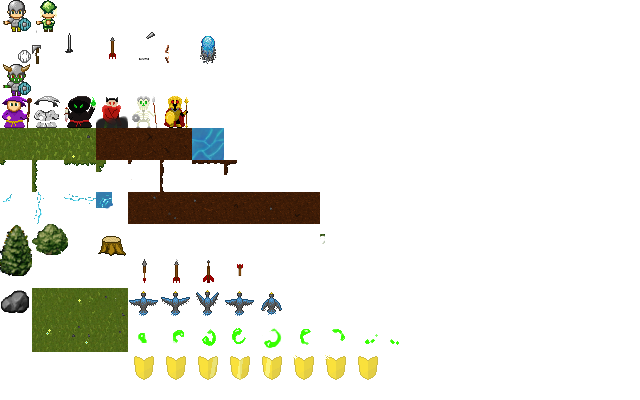
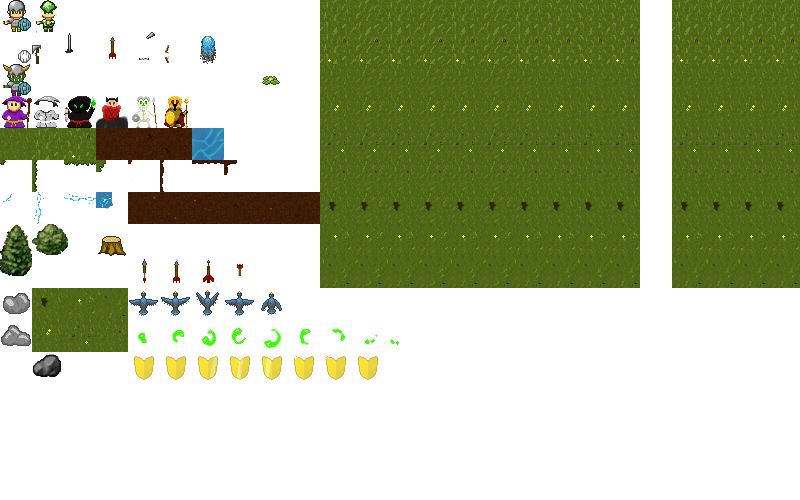
added grass animations, and new rocks

diff --git a/IronTactics/src/fr/frozen/iron/common/Tile.java b/IronTactics/src/fr/frozen/iron/common/Tile.java
@@ -4,6 +4,7 @@ import java.awt.geom.Point2D;
 import java.util.ArrayList;
 import java.util.List;
 
+import fr.frozen.game.AnimationSequence;
 import fr.frozen.game.ISprite;
 import fr.frozen.game.ISpriteManager;
 import fr.frozen.game.SpriteManagerImpl;
@@ -45,6 +46,9 @@ public class Tile {
 	
 	protected IronMap map;
 	protected ISprite sprite;
+	protected AnimationSequence idle_animation;
+	protected AnimationSequence wind_animation;
+	
 	protected ISprite overlapSprite;
 	protected List<ISprite> []overlaySprites;
 	
@@ -185,20 +189,32 @@ public class Tile {
 		return "["+type+ ", "+subType+"]["+objectOverlap+", "+objectSubType+", "+occupied+"]["+terrainOverlap+"] ";
 	}
 
-	public void render() {
-		if (sprite != null) {
-			sprite.draw((float)pos.getX() * IronConst.TILE_WIDTH, (float)pos.getY() * IronConst.TILE_HEIGHT);
+	public void render(float deltaTime) {
+		float x = (float)pos.getX() * IronConst.TILE_WIDTH;
+		float y = (float)pos.getY() * IronConst.TILE_HEIGHT;
+		
+		if (wind_animation != null && wind_animation.animating()) {
+			wind_animation.update(deltaTime);
+		} else if (idle_animation != null) {
+			idle_animation.update(deltaTime);
+		}
+		
+		if (wind_animation != null && wind_animation.animating()) {
+			wind_animation.getCurrentSprite().draw(x, y);
+		} else if(idle_animation != null) {
+			idle_animation.getCurrentSprite().draw(x, y);
+		} else if (sprite != null) {
+			sprite.draw(x, y);
 		}
 		
 		if (overlaySprites != null) {
 			for (int i = 0; i < NB_DISPLAY_LEVELS; i++) {
 				for (ISprite s : overlaySprites[i]) {
-					s.draw((float)pos.getX() * IronConst.TILE_WIDTH, (float)pos.getY() * IronConst.TILE_HEIGHT);
+					s.draw(x, y);
 				}
 			}
 		}
 	}
-	
 	
 	public void renderObject(float deltaTime) {
 		if (overlapSprite != null) {
@@ -206,14 +222,27 @@ public class Tile {
 		}
 	}
 	
+	public void animateWind() {
+		if (type == TYPE_GRASS && wind_animation != null) {
+			wind_animation.start();
+		}
+	}
+	
 	@SuppressWarnings("unchecked")
 	public void findSprites() {
 		ISpriteManager spriteManager = SpriteManagerImpl.getInstance();
-
+		String spriteName = tile_names[type];
 		if (subType > 0) {
-			sprite = spriteManager.getSprite(tile_names[type]+"_"+subType);
-		} else {
-			sprite = spriteManager.getSprite(tile_names[type]);
+			spriteName += "_"+subType;
+		} 
+		sprite = spriteManager.getSprite(spriteName);
+		
+		if (spriteManager.isAnimationLoaded(spriteName+"_wind")) {
+			wind_animation = spriteManager.getAnimationSequence(spriteName+"_wind");
+		}
+		if (spriteManager.isAnimationLoaded(spriteName+"_idle")) {
+			idle_animation = spriteManager.getAnimationSequence(spriteName+"_idle");
+			idle_animation.start();
 		}
 		
 		//sprite = spriteManager.getSprite(tile_names[type]);

diff --git a/IronTactics/src/fr/frozen/iron/common/IronMap.java b/IronTactics/src/fr/frozen/iron/common/IronMap.java
@@ -20,6 +20,9 @@ public class IronMap implements TileBasedMap {
 	
 	
 	protected Tile[][] tiles;
+	protected int currentWindIndex = -1;
+	protected float currentDuration;
+	protected float timeBetweenTwo = 0.15f;//s
 	
 	public IronMap() {
 		tiles = new Tile[IronConst.MAP_WIDTH][IronConst.MAP_HEIGHT];
@@ -32,6 +35,32 @@ public class IronMap implements TileBasedMap {
 		}
 	}
 	
+	public void update(float deltaTime) {
+		if (currentWindIndex == -1 && Math.random() <= IronConst.WIND_PROB) {
+			currentWindIndex = 0;
+			currentDuration = 0;
+			for (int j = 0; j < tiles[j].length; j++) {
+				tiles[currentWindIndex][j].animateWind();
+			}
+		} else if (currentWindIndex >= 0) {
+			currentDuration += deltaTime;
+			while (currentDuration > timeBetweenTwo) {
+				currentDuration -= timeBetweenTwo;
+				currentWindIndex++;
+
+				if (currentWindIndex >= IronConst.MAP_WIDTH) {
+					currentWindIndex = -1;
+					return;
+				}
+				
+				for (int j = 0; j < tiles[j].length; j++) {
+					tiles[currentWindIndex][j].animateWind();
+				}
+			}
+		} else {
+			return;
+		}
+	}
 	
 	private boolean isDeployementZone(int x, int y) {
 		int xstart = (IronConst.MAP_WIDTH - 10) / 2 /*+ (IronConfig.MAP_WIDTH & 1)*/;
@@ -199,7 +228,7 @@ public class IronMap implements TileBasedMap {
 	public void render(float deltaTime) {
 		for (int i = 0; i < tiles.length; i++) {
 			for (int j = 0; j < tiles[i].length; j++) {
-				tiles[i][j].render();
+				tiles[i][j].render(deltaTime);
 				tiles[i][j].renderObject(deltaTime);
 				IronUnit unit = tiles[i][j].getUnitOnTile();
 				if (unit != null) {
@@ -213,7 +242,7 @@ public class IronMap implements TileBasedMap {
 	public void renderTiles(float deltaTime) {
 		for (int i = 0; i < tiles.length; i++) {
 			for (int j = 0; j < tiles[i].length; j++) {
-				tiles[i][j].render();
+				tiles[i][j].render(deltaTime);
 			}
 		}
 	}

diff --git a/IronTactics/src/fr/frozen/iron/client/gameStates/Game.java b/IronTactics/src/fr/frozen/iron/client/gameStates/Game.java
@@ -285,6 +285,7 @@ public class Game extends GameState implements NetEventListener, MouseListener, 
 		
 		if (!worldReady) return;
 		world.update(deltaTime);
+		world.getMap().update(deltaTime);
 		
 		if (getGameObjectCollection("bird") == null || getGameObjectCollection("bird").size() == 0) {
 			if (Math.random() <= IronConst.BIRD_APPEARANCE_PROB) {

diff --git a/IronTactics/src/fr/frozen/iron/util/IronConst.java b/IronTactics/src/fr/frozen/iron/util/IronConst.java
@@ -20,6 +20,7 @@ public class IronConst {
 	public static final int INTRO_DURATION = 1;//s
 
 	public static final double BIRD_APPEARANCE_PROB = 0.0001;
+	public static final double WIND_PROB = 0.001;
 	public static float PROJECTILE_SPEED = 450;
 	public static float BLIND_PROJECTILE_SPEED = 120;
 	public static float BLIND_SHOT_MISS_PROB = 0.15f;
